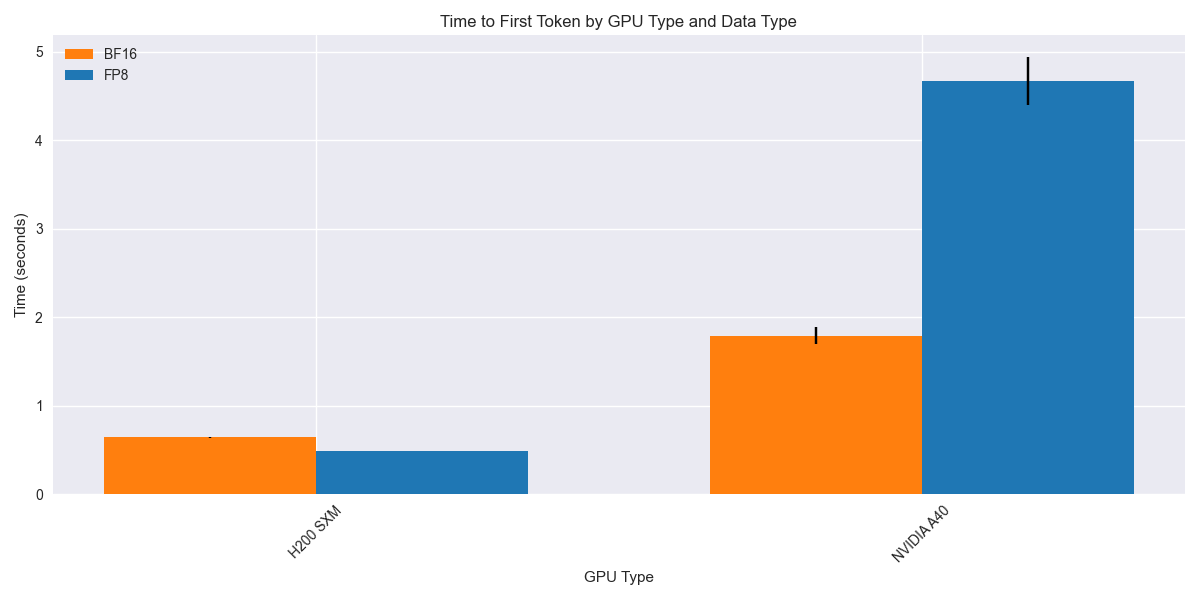
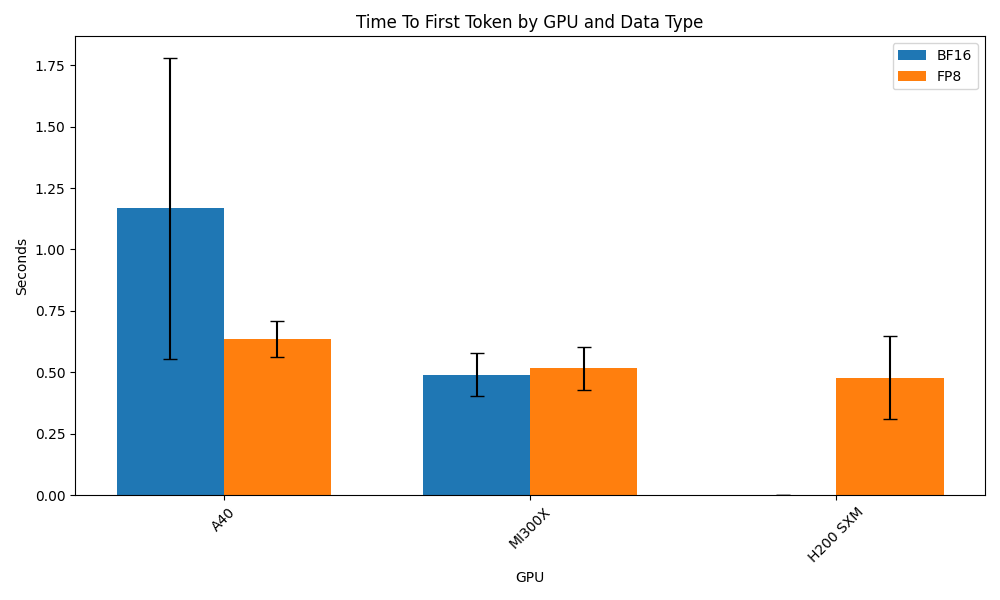
Add SGLang for A40 MI300X and H200 fp8

diff --git a/scripts/visualize_results.py b/scripts/visualize_results.py
@@ -1,113 +1,111 @@
 import sqlite3
 import pandas as pd
 import matplotlib.pyplot as plt
-import seaborn as sns
-from pathlib import Path
 import numpy as np
-import warnings
+import os
 
-def load_benchmark_data(db_path: str = "results.db") -> pd.DataFrame:
-    """Load benchmark results from SQLite database."""
-    conn = sqlite3.connect(db_path)
-    df = pd.read_sql_query("SELECT * FROM benchmark_runs", conn)
-    conn.close()
-    return df
+def create_plots_dir():
+    if not os.path.exists('plots'):
+        os.makedirs('plots')
 
-def plot_metrics_by_gpu(df: pd.DataFrame, save_dir: str = "plots"):
-    """Plot key metrics by GPU type and data type."""
-    Path(save_dir).mkdir(exist_ok=True)
-    plt.style.use('seaborn-v0_8')  # Use the newer style name
+def create_grouped_bar_plot(metric_name, df, title, ylabel, filename):
+    """Create a grouped bar plot with error bars."""
+    # Get unique GPUs and data types
+    gpus = df['gpu_info'].unique()
+    data_types = sorted(df['data_type'].unique())  # Sort to ensure consistent ordering
     
-    # Color scheme for data types
-    colors = {'FP8': '#1f77b4', 'BF16': '#ff7f0e', 'Unknown': '#2ca02c'}
+    # Set up the plot
+    plt.figure(figsize=(10, 6))
+    width = 0.35  # Width of bars
+    x = np.arange(len(gpus))
     
-    def create_grouped_bar_plot(metric, title, ylabel):
-        plt.figure(figsize=(12, 6))
+    # Create bars for each data type
+    for i, dtype in enumerate(data_types):
+        # Get data for this type, maintaining GPU order
+        data = []
+        errors = []
+        for gpu in gpus:
+            gpu_data = df[(df['gpu_info'] == gpu) & (df['data_type'] == dtype)]
+            if not gpu_data.empty:
+                data.append(gpu_data[metric_name].mean())
+                errors.append(gpu_data[metric_name].std())
+            else:
+                data.append(0)
+                errors.append(0)
         
-        # Calculate means and std for each GPU/data_type combination
-        stats = df.groupby(['gpu_info', 'data_type'])[metric].agg(['mean', 'std']).reset_index()
-        
-        # Replace NaN std with 0 for single data points
-        stats['std'] = stats['std'].fillna(0)
-        
-        # Set up bar positions
-        gpus = stats['gpu_info'].unique()
-        data_types = stats['data_type'].unique()
-        x = np.arange(len(gpus))
-        width = 0.35  # Width of bars
-        
-        # Plot bars for each data type
-        for i, dtype in enumerate(data_types):
-            mask = stats['data_type'] == dtype
-            data = stats[mask]
-            if not data.empty:
-                plt.bar(x + i*width - width/2, 
-                       data['mean'],
-                       width,
-                       yerr=data['std'],
-                       label=dtype,
-                       color=colors[dtype],
-                       capsize=5)
-        
-        plt.xlabel('GPU Type')
-        plt.ylabel(ylabel)
-        plt.title(title)
-        plt.xticks(x, gpus, rotation=45)
-        plt.legend()
-        plt.tight_layout()
-        plt.savefig(f"{save_dir}/{metric}_by_gpu.png")
-        plt.close()
+        plt.bar(x + i*width - width/2, 
+               data,
+               width,
+               label=dtype,
+               yerr=errors,
+               capsize=5)
+    
+    plt.xlabel('GPU')
+    plt.ylabel(ylabel)
+    plt.title(title)
+    plt.xticks(x, gpus, rotation=45)
+    plt.legend()
+    plt.tight_layout()
+    
+    # Save the plot
+    plt.savefig(f'plots/{filename}.png')
+    plt.close()
 
-    # Suppress runtime warnings about NaN values
-    with warnings.catch_warnings():
-        warnings.simplefilter("ignore", category=RuntimeWarning)
-        
-        # Create plots for each metric
-        create_grouped_bar_plot('overall_throughput', 
-                              'Token Throughput by GPU Type and Data Type',
-                              'Tokens/second')
-        
-        create_grouped_bar_plot('price_per_token',
-                              'Price per Token by GPU Type and Data Type',
-                              'Price per Token ($)')
-        
-        create_grouped_bar_plot('ttft',
-                              'Time to First Token by GPU Type and Data Type',
-                              'Time (seconds)')
+def plot_metrics_by_gpu(df):
+    """Create various performance metric plots."""
+    create_plots_dir()
+    
+    # Plot overall throughput
+    create_grouped_bar_plot('overall_throughput', 
+                          df,
+                          'Token Generation Throughput by GPU and Data Type',
+                          'Tokens/second',
+                          'overall_throughput_by_gpu')
+    
+    # Plot TTFT (Time To First Token)
+    create_grouped_bar_plot('ttft',
+                          df,
+                          'Time To First Token by GPU and Data Type',
+                          'Seconds',
+                          'ttft_by_gpu')
+    
+    # Plot price per token
+    create_grouped_bar_plot('price_per_token',
+                          df,
+                          'Price per Token by GPU and Data Type',
+                          'USD per Token',
+                          'price_per_token_by_gpu')
 
-def print_summary_stats(df: pd.DataFrame):
-    """Print summary statistics for the benchmark runs."""
+def print_summary_stats(df):
+    """Print summary statistics for the benchmark results."""
     print("\nSummary Statistics:")
-    print("-" * 50)
+    print("\nAverage Throughput by GPU and Data Type:")
+    print(df.groupby(['gpu_info', 'data_type'])['overall_throughput'].mean())
     
-    metrics = ['overall_throughput', 'price_per_token', 'ttft']
+    print("\nAverage TTFT by GPU and Data Type:")
+    print(df.groupby(['gpu_info', 'data_type'])['ttft'].mean())
     
-    # Calculate stats and handle NaN values
-    stats = df.groupby(['gpu_info', 'data_type'])[metrics].agg(['mean', 'std']).round(3)
-    stats = stats.fillna({'std': '-'})  # Replace NaN std with '-' for better display
-    
-    print("\nPerformance by GPU and Data Type:")
-    with pd.option_context('display.max_rows', None, 'display.max_columns', None):
-        print(stats)
-    
-    print("\nNumber of runs by GPU and Data Type:")
-    print(pd.crosstab(df['gpu_info'], df['data_type']))
-    
-    # Print individual run details for debugging
-    print("\nIndividual Run Details:")
-    for idx, row in df.iterrows():
-        print(f"\nRun {idx + 1}:")
-        print(f"GPU: {row['gpu_info']}")
-        print(f"Data Type: {row['data_type']}")
-        print(f"Throughput: {row['overall_throughput']:.2f} tokens/s")
-        print(f"Price/Token: ${row['price_per_token']:.8f}")
-        print(f"Price/1M Tokens: ${(row['price_per_token'] * 1_000_000):.4f}")
-        print(f"TTFT: {row['ttft']:.2f}s")
+    print("\nAverage Price per Token by GPU and Data Type:")
+    print(df.groupby(['gpu_info', 'data_type'])['price_per_token'].mean())
 
 def main():
-    df = load_benchmark_data()
+    # Connect to database
+    conn = sqlite3.connect('results.db')
+    
+    # Load data
+    df = pd.read_sql_query('''
+        SELECT gpu_info, data_type, overall_throughput, ttft, 
+               price_per_token, mean_latency
+        FROM benchmark_runs
+    ''', conn)
+    
+    # Generate plots
     plot_metrics_by_gpu(df)
+    
+    # Print summary statistics
     print_summary_stats(df)
+    
+    conn.close()
 
 if __name__ == "__main__":
     main() 

diff --git a/scripts/clean_h200_data.py b/scripts/clean_h200_data.py
@@ -1,0 +1,49 @@
+import sqlite3
+import pandas as pd
+
+def examine_and_clean_h200_data(db_path: str = "results.db"):
+    """Examine H200 SXM entries and clean up problematic data."""
+    conn = sqlite3.connect(db_path)
+    
+    # First, let's look at all H200 entries in detail
+    query = '''
+        SELECT id, timestamp, model, gpu_info, data_type, 
+               overall_throughput, ttft, mean_latency
+        FROM benchmark_runs 
+        WHERE gpu_info = 'H200 SXM'
+        ORDER BY timestamp DESC
+    '''
+    
+    df = pd.read_sql_query(query, conn)
+    print("\nAll H200 SXM entries:")
+    print(df)
+    
+    # Find potentially problematic entries (e.g., significantly different throughput)
+    mean_throughput = df['overall_throughput'].mean()
+    std_throughput = df['overall_throughput'].std()
+    outliers = df[abs(df['overall_throughput'] - mean_throughput) > 2 * std_throughput]
+    
+    if not outliers.empty:
+        print("\nPotentially problematic entries (outliers):")
+        print(outliers)
+        
+        # Delete outliers
+        outlier_ids = outliers['id'].tolist()
+        c = conn.cursor()
+        for id in outlier_ids:
+            c.execute('DELETE FROM benchmark_runs WHERE id = ?', (id,))
+            print(f"\nRemoved entry with id {id}")
+        
+        conn.commit()
+    else:
+        print("\nNo obvious outliers found")
+    
+    # Show final state
+    df_after = pd.read_sql_query(query, conn)
+    print("\nRemaining H200 SXM entries:")
+    print(df_after)
+    
+    conn.close()
+
+if __name__ == "__main__":
+    examine_and_clean_h200_data() 

diff --git a/scripts/clean_last_entry.py b/scripts/clean_last_entry.py
@@ -1,0 +1,32 @@
+import sqlite3
+
+def remove_last_entry(db_path: str = "results.db"):
+    """Remove the last entry from the benchmark_runs table."""
+    conn = sqlite3.connect(db_path)
+    c = conn.cursor()
+    
+    # Get the max ID
+    c.execute('SELECT MAX(id) FROM benchmark_runs')
+    max_id = c.fetchone()[0]
+    
+    if max_id:
+        # Delete the last entry
+        c.execute('DELETE FROM benchmark_runs WHERE id = ?', (max_id,))
+        print(f"Removed entry with id {max_id}")
+    
+    # Show remaining entries
+    c.execute('''
+        SELECT id, timestamp, model, gpu_info, overall_throughput 
+        FROM benchmark_runs 
+        ORDER BY id DESC 
+        LIMIT 5
+    ''')
+    print("\nLast 5 entries:")
+    for row in c.fetchall():
+        print(f"ID: {row[0]}, Time: {row[1]}, Model: {row[2]}, GPU: {row[3]}, Throughput: {row[4]}")
+    
+    conn.commit()
+    conn.close()
+
+if __name__ == "__main__":
+    remove_last_entry() 

diff --git a/scripts/check_db.py b/scripts/check_db.py
@@ -1,0 +1,24 @@
+import sqlite3
+import pandas as pd
+
+def check_database(db_path: str = "results.db"):
+    """Print summary of database contents."""
+    conn = sqlite3.connect(db_path)
+    
+    # Get overview of data
+    df = pd.read_sql_query('''
+        SELECT gpu_info, data_type, 
+               COUNT(*) as count,
+               AVG(overall_throughput) as avg_throughput,
+               AVG(ttft) as avg_ttft
+        FROM benchmark_runs
+        GROUP BY gpu_info, data_type
+    ''', conn)
+    
+    print("\nSummary by GPU and data type:")
+    print(df)
+    
+    conn.close()
+
+if __name__ == "__main__":
+    check_database() 

diff --git a/README.md b/README.md
@@ -436,12 +436,12 @@ To save results with GPU information:
 
 ```bash
 export OPENAI_API_KEY=EMPTY
-export OPENAI_API_BASE="https://7u4mygxsjbh4ha-8000.proxy.runpod.net/v1"
+export OPENAI_API_BASE="https://qj3y28gcyu18o7-8000.proxy.runpod.net/v1"
 export TOKENIZERS_PARALLELISM=false
 
 uv run python token_benchmark_ray.py \
 --model "neuralmagic/Meta-Llama-3.1-8B-Instruct-FP8" \
---gpu-info "H200 SXM" \
+--gpu-info "H100 SXM" \
 --price-per-hour 3.99 \
 --db-path "results.db" \
 --results-dir "result_outputs" \
@@ -454,26 +454,10 @@ uv run python token_benchmark_ray.py \
 --num-concurrent-requests 64 \
 --additional-sampling-params '{}'
 ```
-or, to run the 16 bit model, use:
-```bash
-export OPENAI_API_KEY=EMPTY
-export OPENAI_API_BASE="https://7u4mygxsjbh4ha-8000.proxy.runpod.net/v1"
-export TOKENIZERS_PARALLELISM=false
-
-uv run python token_benchmark_ray.py \
---model "unsloth/Meta-Llama-3.1-8B-Instruct" \
---gpu-info "H200 SXM" \
---price-per-hour 3.99 \
---db-path "results.db" \
---results-dir "result_outputs" \
---mean-input-tokens 550 \
---stddev-input-tokens 150 \
---mean-output-tokens 150 \
---stddev-output-tokens 10 \
---max-num-completed-requests 64 \
---timeout 600 \
---num-concurrent-requests 64 \
---additional-sampling-params '{}'
+or try other models:
+```
+unsloth/Meta-Llama-3.1-8B-Instruct
+neuralmagic/Meta-Llama-3.1-8B-Instruct-FP8
 ```
 
 You can query the results later using SQL:
